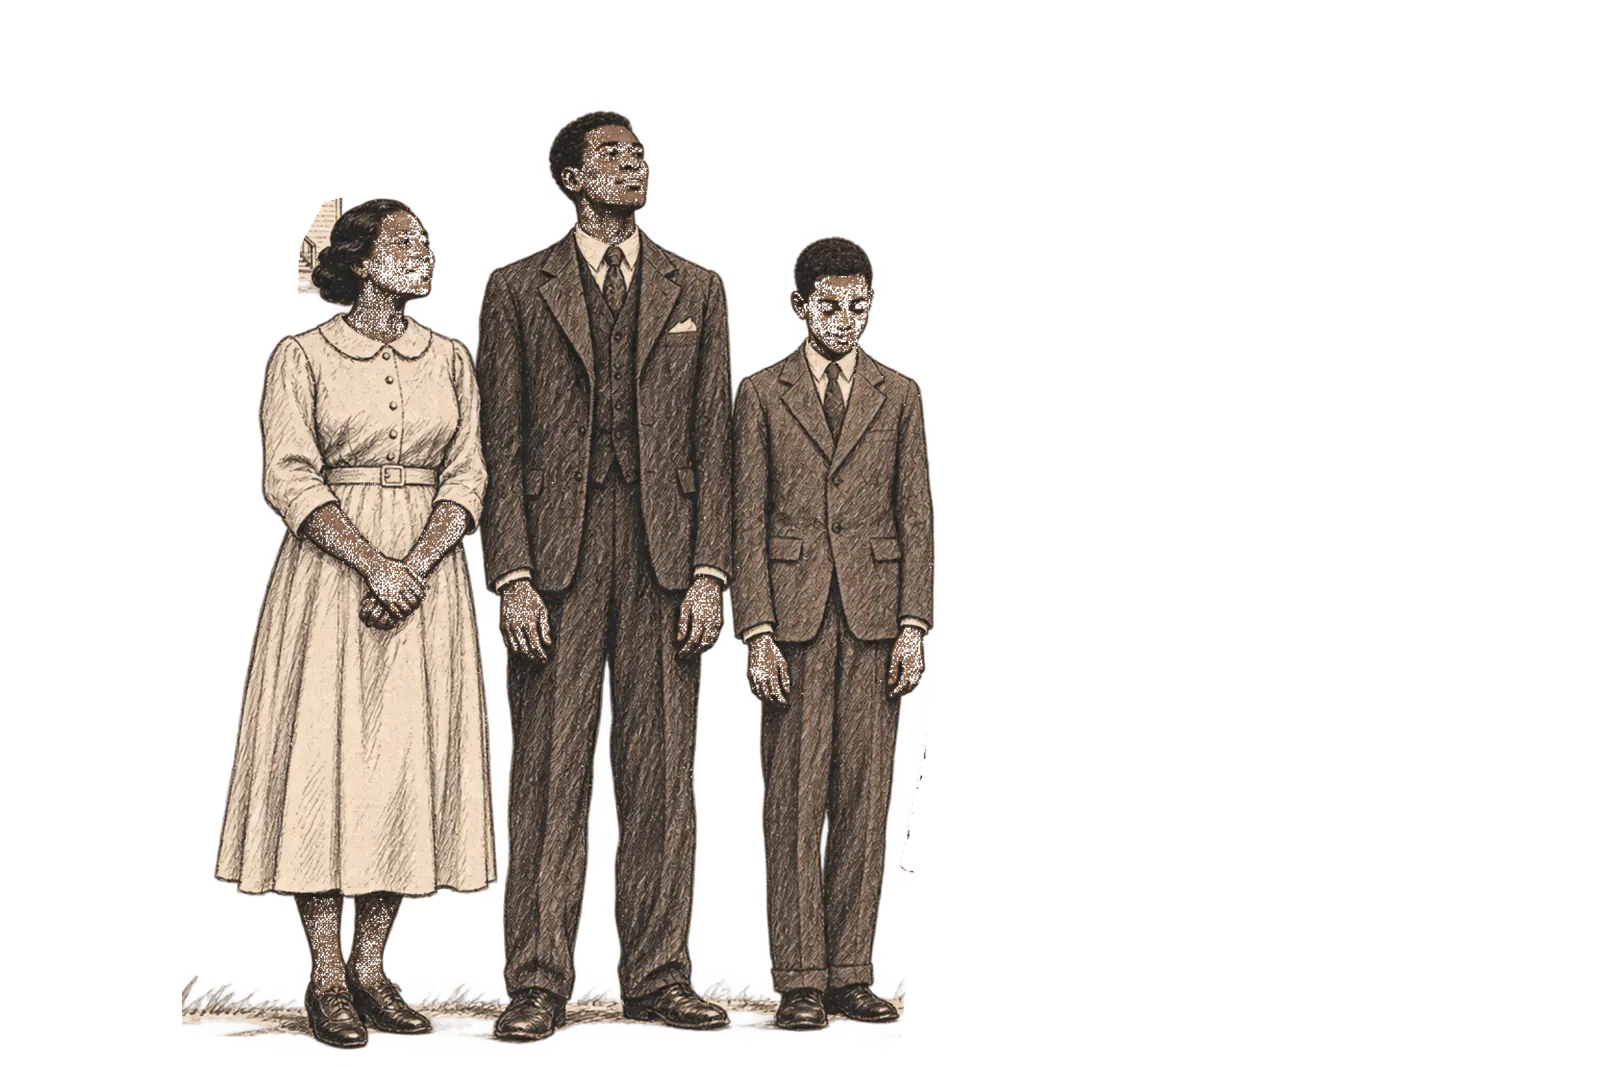
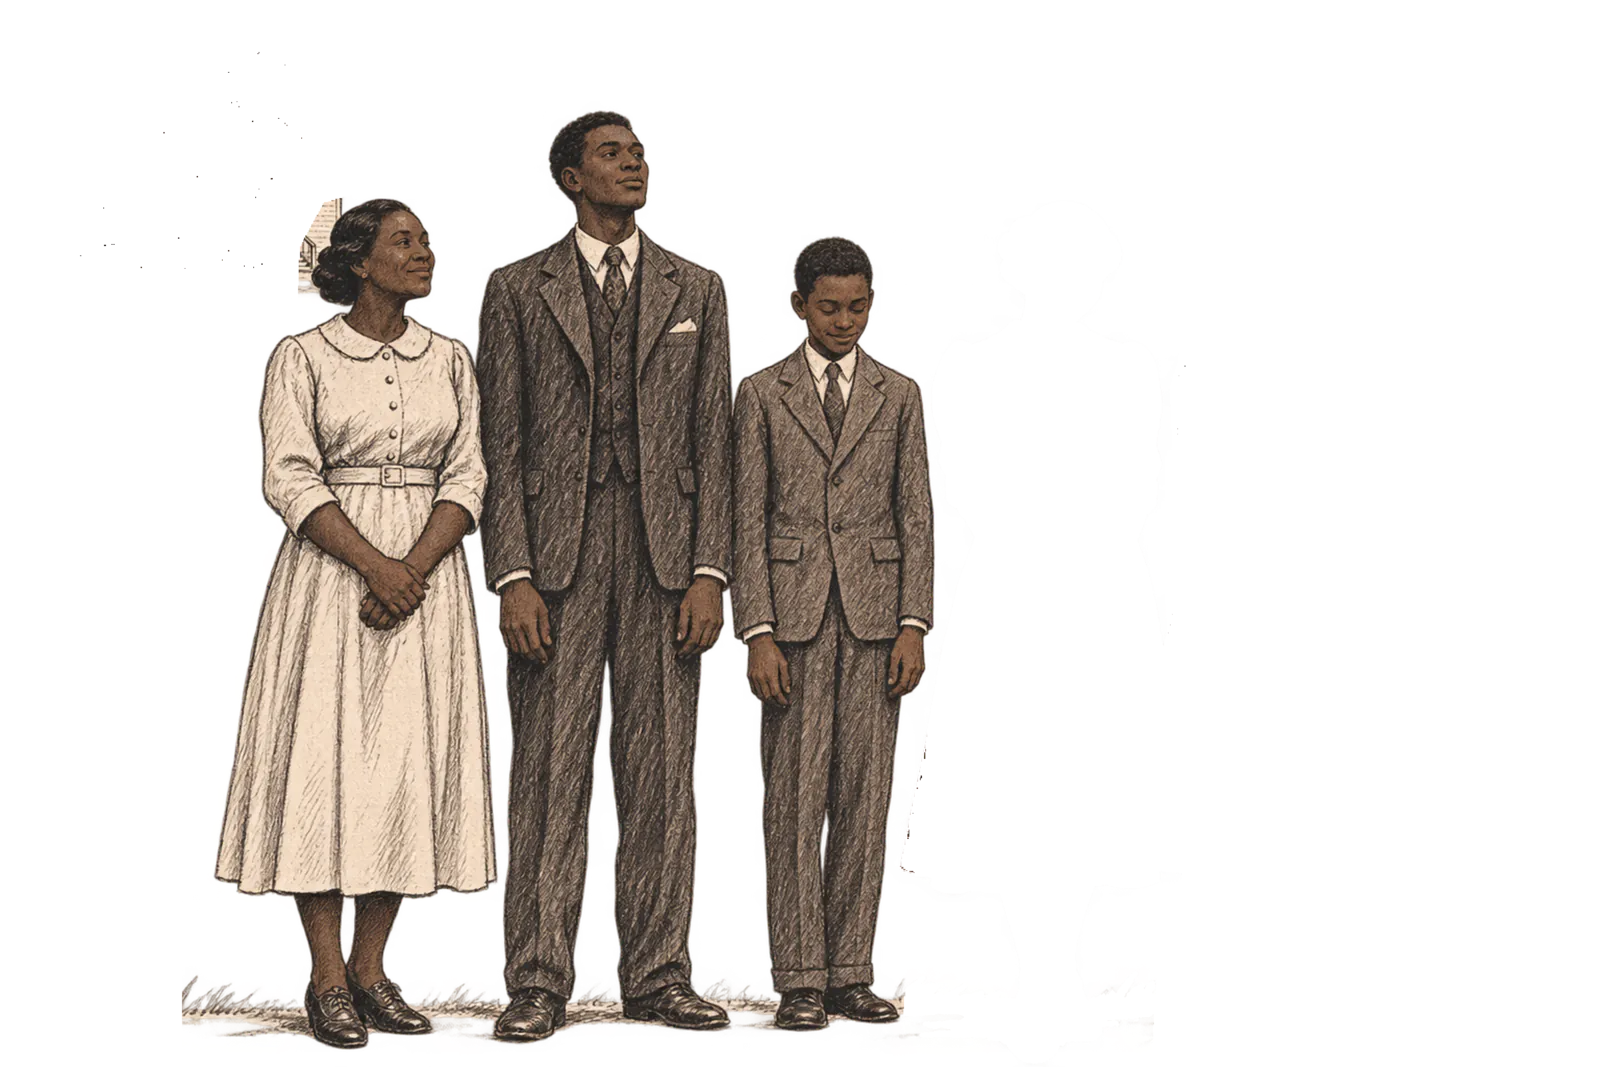
feat(web): draw the ring, family and minute scenes from their layers
The last three placeholder drawings give way to the approved redraws.
In ring and minute the hands exist only on their own layer, so they
clap with the reader's taps and the bed's beats over a still copy that
keeps the figures whole, and those figures share the hands' depth and
do not breathe. In the family scene the sisters come half a step
forward when it is reached; their layer was re-split by connected
component, because the source cut had put the other relatives' faces
and hands into one sister's file. The minute's alt text says one sister
leads and the other answers without naming which is which. Calm mode
and reduced motion keep the hands still and the sisters in place.

Assisted-by: LLM

diff --git a/web/src/features/sea-lion-girls/art.ts b/web/src/features/sea-lion-girls/art.ts
@@ -1,7 +1,8 @@
-// Placeholder line art for Sea Lion Girls, drawn in code: ink and pencil on
-// warm paper, one colour besides the ink (red, "dressed in red"). The owner
-// will supply or approve the final art; these drawings hold the places and
-// carry the motion (see ../engine/ink.ts for the data attributes).
+// Line art for Sea Lion Girls drawn in code: ink and pencil on warm paper,
+// one colour besides the ink (red, "dressed in red"). The scenes show their
+// generated illustrations (feature.yaml, `art:`); these drawings remain for
+// the film strip, the page, the glyphs, and as stand-ins for a scene whose
+// layers are not there.
 import type { Glyph } from '../lineage';
 import { blot, drawing, hatch, ink, loop, s, sketch } from '../engine/ink';
 
@@ -59,17 +60,6 @@ export function door(): SVGSVGElement {
   );
 }
 
-export function ring(n = 7, seed = 30): SVGSVGElement {
-  const g = s('g', { class: 'ring-figures' });
-  for (let i = 0; i < n; i++) {
-    const a = (i / n) * Math.PI * 2;
-    const x = 200 + Math.sin(a) * 120;
-    const y = 120 - Math.cos(a) * 52;
-    g.append(figure(x, y, 0.78 + 0.12 * Math.cos(a), seed + i * 11, { clap: true, from: (i / n) * 0.3, to: 0.3 + (i / n) * 0.3 }));
-  }
-  return drawing('0 0 400 300', 'art-ring', paper(400, 300), ink(loop(200, 205, 150, 34, seed, 2), 0, 0.5), g, blot(200, 205, 9));
-}
-
 export function expedition(place: string): SVGSVGElement {
   const route: [number, number][] = [
     [360, 40],
@@ -96,35 +86,6 @@ export function label(x: number, y: number, text: string, cls = 'ink-label', fad
   const t = s('text', { x, y, class: cls, ...(fade ? { 'data-fade': fade } : {}) });
   t.textContent = text;
   return t;
-}
-
-export function porch(heights: number[], leads: boolean[]): SVGSVGElement {
-  const n = heights.length;
-  const g = s('g', {});
-  heights.forEach((k, i) => {
-    const x = 60 + (i * 280) / Math.max(1, n - 1);
-    g.append(figure(x, 210 - 70 * k, k, 70 + i * 13, { red: leads[i], from: 0.08 + i * 0.1, to: 0.3 + i * 0.1 }));
-  });
-  return drawing(
-    '0 0 400 300',
-    'art-porch',
-    paper(400, 300),
-    s('g', { 'data-depth': 14 }, ink(sketch([[10, 60], [390, 60]], 60, 2), 0, 0.2), ink(sketch([[30, 60], [30, 282]], 61), 0, 0.2), ink(sketch([[370, 60], [370, 282]], 62), 0, 0.2), hatch(10, 40, 380, 20, 6, 63, 0, 0.3)),
-    ink(sketch([[10, 282], [390, 282]], 64, 1.5), 0, 0.2),
-    g,
-  );
-}
-
-export function minute(): SVGSVGElement {
-  return drawing(
-    '0 0 400 300',
-    'art-minute',
-    paper(400, 300),
-    ink(loop(200, 230, 140, 30, 80, 2), 0, 0.3),
-    figure(165, 120, 1.15, 81, { red: true, clap: true, from: 0.05, to: 0.35 }),
-    figure(235, 124, 1.1, 82, { red: true, clap: true, from: 0.1, to: 0.4 }),
-    blot(200, 230, 6, 'red'),
-  );
 }
 
 export function album(paris: string, washington: string): SVGSVGElement {

diff --git a/web/e2e/features.spec.ts b/web/e2e/features.spec.ts
@@ -350,3 +350,39 @@ test('with reduced motion the illustrations do not move either', async ({ page }
   const mask = await scene(page, 'classroom').locator('.ft-art .al').first().evaluate((e) => getComputedStyle(e).maskImage);
   expect(mask).toBe('none');
 });
+
+test('the ring, the family and the minute are drawn in layers: hands clap, the sisters step forward', async ({ page }) => {
+  await openFeature(page);
+  for (const id of ['ring', 'family', 'minute']) await expect(scene(page, id).locator('svg.ink')).toHaveCount(0);
+  await goToScene(page, 'family');
+  const sisters = scene(page, 'family').locator('.al[data-role="step"]');
+  await expect(sisters).toHaveCount(2);
+  // Half a step back until the scene is reached, then forward to where they are drawn.
+  await expect.poll(() => sisters.first().evaluate((e) => getComputedStyle(e).scale)).toBe('1');
+  await expect(scene(page, 'family').locator('.ft-figures li')).toHaveCount(5);
+  await feature(page).locator('.ft-knock').evaluate((b) => (b as HTMLButtonElement).click());
+  await goToScene(page, 'minute');
+  const hands = scene(page, 'minute').locator('.al[data-role="hands"]');
+  // A still copy under the clapping hands keeps the sisters whole.
+  await expect(hands.locator('img')).toHaveCount(2);
+  await expect.poll(() => hands.locator('img').evaluateAll((els) => els.every((e) => (e as HTMLImageElement).naturalWidth > 0))).toBe(true);
+  await hands.evaluate((e) => e.classList.remove('clap'));
+  await feature(page).locator('.cc').click();
+  await expect(hands).toHaveClass(/clap/);
+  // The alt text says two sisters lead and answer, without naming which is which.
+  const alts = await scene(page, 'minute').locator('.ft-art img:not(.al-still)').evaluateAll((els) => els.map((e) => (e as HTMLImageElement).alt).join(' '));
+  expect(alts).toContain('one leads, the other answers');
+  expect(alts).not.toMatch(/Christine|Katherine/);
+});
+
+test('in calm mode the hands do not clap and the sisters already stand forward', async ({ page }) => {
+  await openFeature(page);
+  await sheet(page).locator('.ft-calm').click();
+  await expect(feature(page)).toHaveClass(/is-calm/);
+  const step = await scene(page, 'family').locator('.al[data-role="step"]').first().evaluate((e) => getComputedStyle(e).scale);
+  expect(step).toBe('1');
+  await goToScene(page, 'minute');
+  const hands = scene(page, 'minute').locator('.al[data-role="hands"]');
+  await feature(page).locator('.cc').click();
+  await expect(hands).not.toHaveClass(/clap/);
+});

diff --git a/web/src/features/engine/layers.ts b/web/src/features/engine/layers.ts
@@ -2,8 +2,9 @@
 // stacked on one canvas of paper colour. The engine moves them through the
 // data attributes it already knows (data-depth for parallax, data-open for a
 // layer swinging open) and CSS does the rest: each layer is wiped in like
-// ink when its scene is reached, figures breathe, a disc turns, and a layer
-// with a state shows only while the picture is in it. Files load when their
+// ink when its scene is reached, figures breathe, a disc turns, hands jump
+// with each clap (`clapHands`), figures step forward, and a layer with a
+// state shows only while the picture is in it. Files load when their
 // scene comes near (img[data-src], see scroll.ts). Calm mode and reduced
 // motion leave the layers still and finished.
 import { h } from '../../lib/dom';
@@ -32,13 +33,14 @@ function layer(l: ArtLayer, i: number, src: string): HTMLElement {
   });
   const pivot = l.pivot?.trim().split(/\s+/).map((v) => `${v}%`).join(' ');
   // A disc turns inside its face: a still copy keeps the rim, the turning one is clipped to the face.
+  // Hands that jump with a clap leave a still copy behind them too, so the figures never show a gap.
+  const still = () => h('img.al-still', { alt: '', 'data-src': src, decoding: 'async', draggable: 'false', 'aria-hidden': 'true', style: style.join(';') });
   const face = l.role === 'spin' && l.spin?.face;
   const turning = face
-    ? [
-        h('img.al-still', { alt: '', 'data-src': src, decoding: 'async', draggable: 'false', 'aria-hidden': 'true', style: style.join(';') }),
-        h('div.al-face', { style: `clip-path:ellipse(${face[2]}% ${face[3]}% at ${face[0]}% ${face[1]}%)` }, img),
-      ]
-    : [img];
+    ? [still(), h('div.al-face', { style: `clip-path:ellipse(${face[2]}% ${face[3]}% at ${face[0]}% ${face[1]}%)` }, img)]
+    : l.role === 'hands'
+      ? [still(), img]
+      : [img];
   return h(
     'div.al',
     {
@@ -76,4 +78,13 @@ export function layered(art: SceneArt, src: (file: string) => string, opts: { na
       return state;
     },
   };
+}
+
+/** Every clapping hands layer under `root` jumps once (the reader's clap or the bed's beat). */
+export function clapHands(root: Element): void {
+  root.querySelectorAll<HTMLElement>('.ft-scene.current .al[data-role="hands"]').forEach((al) => {
+    al.classList.remove('clap');
+    void al.offsetWidth;
+    al.classList.add('clap');
+  });
 }

diff --git a/web/src/features/engine/kit.ts b/web/src/features/engine/kit.ts
@@ -16,7 +16,7 @@ import { isCalm, onCalm, setCalm } from './calm';
 import { ClapCircle } from './circle';
 import { BEAT, clap, ClapBed, knock } from './clap';
 import { inkDefs, LivingInk } from './ink';
-import { layered, type Picture } from './layers';
+import { clapHands, layered, type Picture } from './layers';
 import { Scroller } from './scroll';
 
 const TEXT_TAG: Record<string, string> = { kicker: 'p.ft-kicker', title: 'h2.ft-title', lede: 'p.ft-lede', text: 'p.ft-text', caption: 'p.ft-caption', line: 'p.ft-line', quote: 'p.ft-quote', note: 'p.ft-note' };
@@ -61,7 +61,11 @@ export class Kit {
     ctx.root.append(defs);
     this.ink = new LivingInk(defs);
     this.bed = new ClapBed(ctx.root);
-    this.bed.onBeat = (b) => this.circle.pulse(b);
+    this.bed.onBeat = (b) => {
+      this.circle.pulse(b);
+      // The pictures' hands clap with the bed, on two and four.
+      if (b % 2 === 1) this.clapHands();
+    };
     this.bed.onStop = () => this.setAudio(this.audio === 'locked' ? 'locked' : 'off');
     this.circle = new ClapCircle(`sankofa.feature.${ctx.data.id}.claps`, this.ui('clap-circle'), (n) => this.ui('clap-count', { n }));
     this.circle.onClap = () => this.tap();
@@ -241,6 +245,7 @@ export class Kit {
     if (this.audio === 'locked') this.unlock();
     const ctx = audioContext();
     clap(ctx, ctx.currentTime, 0.32);
+    this.clapHands();
     this.circle.add(this.bed.running ? { now: ctx.currentTime, start: this.bed.start, beat: BEAT } : undefined);
   }
 
@@ -267,6 +272,11 @@ export class Kit {
   art(sc: Scene, opts: { state?: string; overlay?: Node | null } = {}): Picture | null {
     if (!sc.art?.layers?.length) return null;
     return layered(sc.art, (file) => this.ctx.app.media(`features/${this.ctx.data.id}/${file}`), { name: sc.id, ...opts });
+  }
+
+  /** The hands drawn in the current scene clap (not in calm mode). */
+  private clapHands(): void {
+    if (!this.ink.calm) clapHands(this.ctx.root);
   }
 
   /** Whether any scene shows generated art (the closing credits say so once). */

diff --git a/web/src/features/engine/engine.css b/web/src/features/engine/engine.css
@@ -346,6 +346,31 @@
     scale: 1.008;
   }
 }
+/* Hands jump with each clap; a still copy underneath keeps the figure whole. */
+.ft-art .al[data-role='hands'] > img:not(.al-still) {
+  will-change: transform;
+}
+.ft-art .al[data-role='hands'].clap > img:not(.al-still) {
+  animation: ft-clap-hands 0.32s var(--ease);
+}
+@keyframes ft-clap-hands {
+  30% {
+    transform: translateY(-0.45%) scale(1.004);
+  }
+}
+/* Figures that come half a step forward when their scene is reached. */
+.ft-art .al[data-role='step'] {
+  scale: 0.955;
+  translate: 0 -1.2%;
+  transition:
+    mask-position 1.8s var(--ease) calc(0.15s + var(--i, 0) * 0.28s),
+    scale 1.6s var(--ease) 0.9s,
+    translate 1.6s var(--ease) 0.9s;
+}
+.ft-scene.reached .ft-art .al[data-role='step'] {
+  scale: 1;
+  translate: 0 0;
+}
 /* A layer swinging open from its pivot over a stretch of the scene. */
 .ft-art .al[data-open] {
   scale: calc(0.2 + 0.8 * var(--open, 1)) 1;
@@ -487,9 +512,15 @@ body.mp-on .cc[data-place='corner'] {
 /* Calm mode: finished, still drawings; text without waiting. */
 .is-calm .ft-art .al,
 .is-calm .ft-art img,
-.is-calm .ft-art .al[data-role='spin'] img {
+.is-calm .ft-art .al[data-role='spin'] img,
+.is-calm .ft-art .al[data-role='hands'].clap > img:not(.al-still) {
   mask-image: none;
   animation: none;
+  transition: none;
+}
+.is-calm .ft-art .al[data-role='step'] {
+  scale: 1;
+  translate: 0 0;
   transition: none;
 }
 .is-calm .ink-breathe,
@@ -515,8 +546,14 @@ body.mp-on .cc[data-place='corner'] {
   .ink-breathe,
   .ft-art .al,
   .ft-art img,
-  .ft-art .al[data-role='spin'] img {
+  .ft-art .al[data-role='spin'] img,
+  .ft-art .al[data-role='hands'].clap > img:not(.al-still) {
     animation: none;
+  }
+  .ft-art .al[data-role='step'] {
+    scale: 1;
+    translate: 0 0;
+    transition: none;
   }
   .ft-art .al {
     mask-image: none;

diff --git a/web/tests/features.test.ts b/web/tests/features.test.ts
@@ -216,7 +216,20 @@ describe('the Sea Lion Girls content', () => {
     expect(validateFeature(f, { nodes: new Set(lin.nodes.map((n) => n.id)), sourced: sourcedNodes(lin), sync, rights, cards, artFiles, ledger: all })).toEqual([]);
     // The approved illustrations: every scene redrawn so far has its layers, generated and with alt fields.
     const drawn = f.scenes.filter((s) => s.art).map((s) => s.id);
-    expect(drawn).toEqual(['door', 'expedition', 'album', 'simone', 'river', 'classroom', 'finale']);
+    expect(drawn).toEqual(['door', 'ring', 'expedition', 'family', 'minute', 'album', 'simone', 'river', 'classroom', 'finale']);
+    // Hands drawn on their own layer clap; figures with holes for those hands do not breathe away from them.
+    for (const id of ['ring', 'minute']) {
+      const layers = f.scenes.find((s) => s.id === id)!.art!.layers;
+      const hands = layers.find((l) => l.role === 'hands')!;
+      expect(hands, id).toBeDefined();
+      for (const l of layers.filter((x) => x !== hands && x.depth !== 3)) {
+        expect(l.depth, `${id} ${l.file}`).toBe(hands.depth);
+        expect(l.role, `${id} ${l.file}`).toBeUndefined();
+      }
+    }
+    // The minute's alt text never says which sister is which.
+    const minuteAlt = JSON.stringify(f.scenes.find((s) => s.id === 'minute')!.art!.layers.map((l) => l.alt));
+    expect(minuteAlt).not.toMatch(/Christine|Katherine|Кристин|Кэтрин/);
     expect(f.scenes.every((s) => !s.art || s.art.generated === true)).toBe(true);
     expect(sceneArtFiles(f).every((file) => artFiles.has(file))).toBe(true);
     expect(f.ui?.['art-credit']).toMatchObject({ en: 'Illustrations generated, edited by the museum', ru: 'Иллюстрации созданы нейросетью, отобраны музеем' });

diff --git a/web/src/features/sea-lion-girls/index.ts b/web/src/features/sea-lion-girls/index.ts
@@ -51,7 +51,7 @@ const ringScene: Render = (kit, sc) => {
   hear.addEventListener('click', () => kit.setSound(kit.audio !== 'on'));
   const sync = () => hear.setAttribute('aria-pressed', String(kit.audio === 'on'));
   new MutationObserver(sync).observe(kit.ctx.root, { attributes: true, attributeFilter: ['data-audio'] });
-  return kit.section(sc, { stage: picture(kit, sc, () => art.ring()), after: [hear] });
+  return kit.section(sc, { stage: kit.art(sc)?.el, after: [hear] });
 };
 
 const expedition: Render = (kit, sc) => {
@@ -63,19 +63,18 @@ const expedition: Render = (kit, sc) => {
 
 const family: Render = (kit, sc) => {
   const figs = (sc.figures as Figure[]) ?? [];
-  const heights = figs.map((f) => (f.age && f.age >= 40 ? 1 : 0.8 + Math.min(0.18, ((f.age ?? 20) - 14) / 50)));
   const list = h(
     'ol.ft-figures',
     {},
     ...figs.map((f, i) => h(`li${f.lead ? '.lead' : ''}`, { 'data-figure': f.id, 'data-fade': `${0.1 + i * 0.1} ${0.3 + i * 0.1}` }, h('b', {}, pick(f.name)), h('span', {}, [f.age ? String(f.age) : '', f.role ? pick(f.role) : ''].filter(Boolean).join(' · ')))),
   );
-  return kit.section(sc, { stage: h('div.ft-stack', {}, picture(kit, sc, () => art.porch(heights, figs.map((f) => !!f.lead))), list), screens: 2.4 });
+  return kit.section(sc, { stage: h('div.ft-stack', {}, kit.art(sc)?.el ?? null, list), screens: 2.4 });
 };
 
 const minute: Render = (kit, sc) => {
   const loc = kit.node(sc.nodes?.[0] ?? '');
   return kit.section(sc, {
-    stage: picture(kit, sc, () => art.minute()),
+    stage: kit.art(sc)?.el,
     after: [loc ? kit.playButton(loc, kit.ui('play-1939')) : null, loc ? kit.credit(loc) : null, h('p.ft-hint', {}, kit.ui('clap-hint'))],
     screens: 2.6,
   });

diff --git a/web/src/features/model.ts b/web/src/features/model.ts
@@ -49,7 +49,11 @@ export interface ArtLayer {
   file: string;
   /** Parallax: how many pixels the layer travels through the scene (0 is still). */
   depth?: number;
-  /** figure: breathes slightly; spin: turns slowly in its own plane (see `spin`). */
+  /**
+   * figure: breathes slightly; spin: turns slowly in its own plane (see
+   * `spin`); hands: jumps with each clap; step: comes half a step forward
+   * when its scene is reached.
+   */
   role?: ArtRole;
   /** What it shows for a screen reader, or "" for a decorative layer. Required either way. */
   alt: Bi | '';
@@ -69,8 +73,8 @@ export interface ArtLayer {
   spin?: { x: number; y: number; ratio: number; tilt?: number; face?: [number, number, number, number] };
 }
 
-export type ArtRole = 'figure' | 'spin';
-export const ART_ROLES: readonly ArtRole[] = ['figure', 'spin'];
+export type ArtRole = 'figure' | 'spin' | 'hands' | 'step';
+export const ART_ROLES: readonly ArtRole[] = ['figure', 'spin', 'hands', 'step'];
 
 /** A scene's illustration: generated layers, marked as generated (they never enter the photo-rights ledger). */
 export interface SceneArt {

diff --git a/web/src/features/sea-lion-girls/sea-lion-girls.css b/web/src/features/sea-lion-girls/sea-lion-girls.css
@@ -485,6 +485,18 @@
 .ft-k-minute .ink {
   max-height: calc(100svh - var(--nav-h) - 6vh - min(26vh, 22vw));
 }
+/* The clap circle sits above the sisters on this stage. */
+.ft-k-minute .ft-stage > .ft-art {
+  width: min(58vw, 860px, 100vw - 2 * var(--gutter) - 31rem - 32px, (100svh - var(--nav-h) - 6vh - min(26vh, 22vw)) * 1.5);
+}
+/* The family stand over their names: the picture and the list share one width. */
+.ft-k-family .ft-stage > .ft-stack {
+  width: min(58vw, 860px, 100vw - 2 * var(--gutter) - 31rem - 32px, (100svh - var(--nav-h) - 6vh - 90px) * 1.5);
+}
+.ft-k-family .ft-stack > .ft-art,
+.ft-k-family .ft-figures {
+  width: 100%;
+}
 
 /* Labels drawn over a layered picture: ink on its paper, whatever the theme. */
 .art-over .ink-label.place {
@@ -609,5 +621,14 @@
 @media (max-width: 720px) {
   .ft-photo {
     width: 100%;
+  }
+}
+@media (max-width: 720px) {
+  .ft-k-family .ft-stage > .ft-stack {
+    width: min(100%, (46svh - 70px) * 1.5);
+  }
+  .ft-k-minute .ft-stage > .ft-art {
+    width: min(100% - 30vw - 12px, 46svh * 1.5);
+    justify-self: start;
   }
 }
